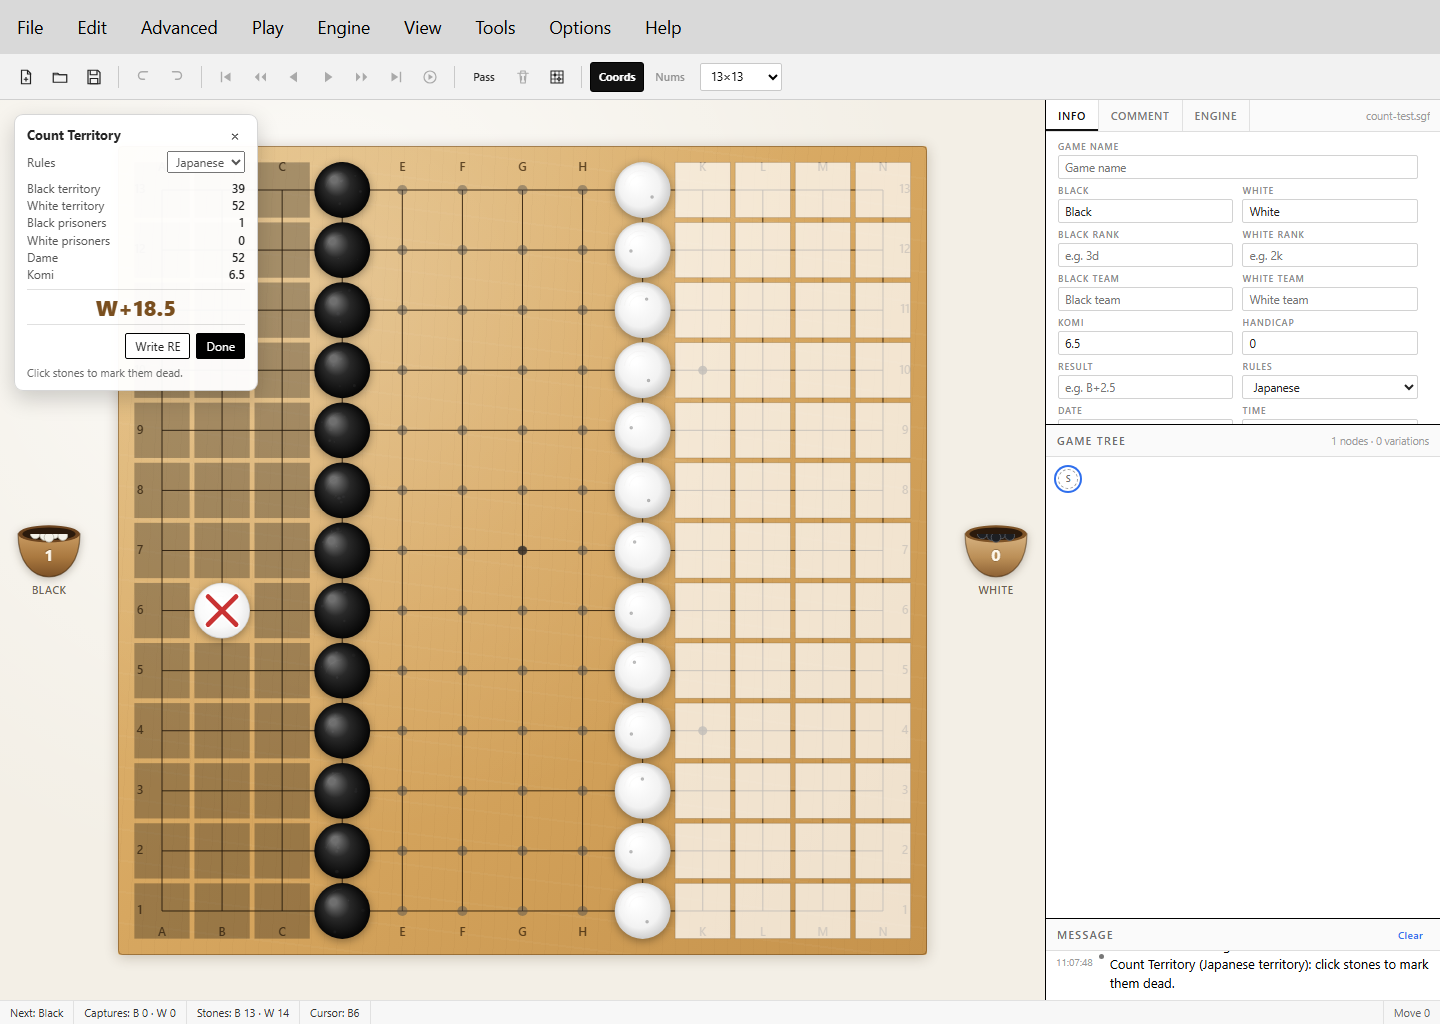
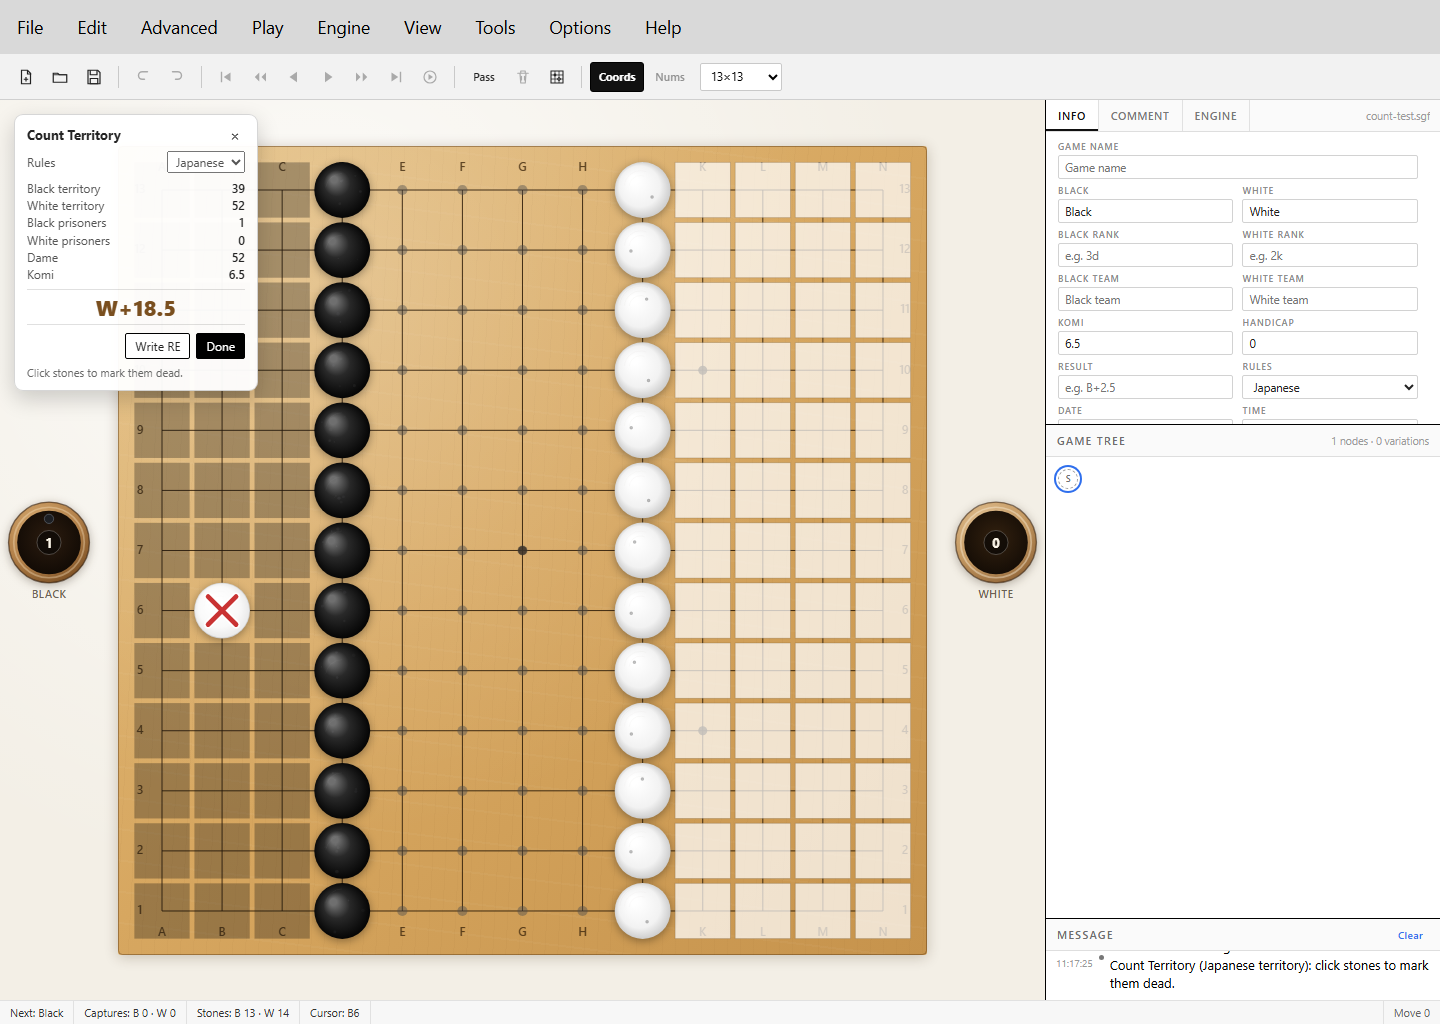
Show captured-stone bowls during play with a top-down layout
- Bowls are live whenever a Japanese-rules game is displayed, not only inside
  Count Territory. Counts come from the board captures, and marked dead stones
  join the prisoner total while counting.
- Redesigned as top-down bowls: wooden rim, dark cavity, the captured stones
  themselves (up to 20) and the prisoner count in a badge in the middle.
- Chinese rules keep the bowls hidden; narrow panes still hide them and
  View -> Show Go Bowls remains the manual toggle.
- README and screenshots updated; verify-count-ui now checks play-time bowls.

Changed region(s): [[0.6562, 0.4688, 0.7188, 0.5938], [0.0, 0.4688, 0.0625, 0.5938], [0.75, 0.9375, 0.9688, 0.9688]]

diff --git a/src/index.html b/src/index.html
@@ -556,26 +556,24 @@
     <main class="workspace" id="workspace">
       <section class="pane pane-board" id="pane-board" aria-label="Go board">
         <div class="bowl bowl-black" id="bowl-black" hidden aria-hidden="true">
-          <svg class="bowl-art" viewBox="0 0 100 92" focusable="false">
+          <svg class="bowl-art" viewBox="0 0 100 100" focusable="false">
             <defs>
-              <linearGradient id="bowl-wood-black" x1="0" y1="0" x2="0" y2="1">
-                <stop offset="0" stop-color="#c99b62"/>
-                <stop offset="0.55" stop-color="#a9783f"/>
-                <stop offset="1" stop-color="#7c5127"/>
-              </linearGradient>
-              <clipPath id="bowl-clip-black"><path d="M14 36 C14 68 30 86 50 86 C70 86 86 68 86 36 Z"/></clipPath>
+              <radialGradient id="bowl-wood-black" cx="38%" cy="30%" r="78%">
+                <stop offset="0" stop-color="#d9ae74"/>
+                <stop offset="0.62" stop-color="#b3814a"/>
+                <stop offset="1" stop-color="#74491f"/>
+              </radialGradient>
+              <radialGradient id="bowl-cavity-black" cx="50%" cy="44%" r="62%">
+                <stop offset="0" stop-color="#2c1c0f"/>
+                <stop offset="1" stop-color="#0f0904"/>
+              </radialGradient>
             </defs>
-            <path d="M14 36 C14 68 30 86 50 86 C70 86 86 68 86 36 Z" fill="url(#bowl-wood-black)" stroke="rgba(60,35,10,.5)" stroke-width="1.5"/>
-            <ellipse cx="50" cy="36" rx="36" ry="10" fill="#6d4520"/>
-            <ellipse cx="50" cy="36" rx="31" ry="7.5" fill="#2b1a0c"/>
-            <g clip-path="url(#bowl-clip-black)">
-              <circle cx="34" cy="36" r="5.6" fill="#f4f2ea" stroke="#b9b6aa" stroke-width="1"/>
-              <circle cx="45" cy="38" r="5.6" fill="#f4f2ea" stroke="#b9b6aa" stroke-width="1"/>
-              <circle cx="56" cy="36" r="5.6" fill="#f4f2ea" stroke="#b9b6aa" stroke-width="1"/>
-              <circle cx="66" cy="38" r="5.6" fill="#f4f2ea" stroke="#b9b6aa" stroke-width="1"/>
-              <circle cx="50" cy="40" r="5.6" fill="#f4f2ea" stroke="#b9b6aa" stroke-width="1"/>
-            </g>
-            <text x="50" y="68" text-anchor="middle" class="bowl-number" id="bowl-black-count">0</text>
+            <circle cx="50" cy="50" r="47" fill="url(#bowl-wood-black)" stroke="rgba(48,26,8,.6)" stroke-width="1.6"/>
+            <circle cx="50" cy="50" r="41" fill="none" stroke="rgba(255,235,200,.35)" stroke-width="2"/>
+            <circle cx="50" cy="50" r="37" fill="url(#bowl-cavity-black)"/>
+            <g id="bowl-black-stones"></g>
+            <circle cx="50" cy="50" r="14" fill="rgba(8,6,4,.66)" stroke="rgba(255,255,255,.28)" stroke-width="1"/>
+            <text x="50" y="50" text-anchor="middle" dominant-baseline="central" class="bowl-number" id="bowl-black-count">0</text>
           </svg>
           <span class="bowl-label">Black</span>
         </div>
@@ -585,26 +583,24 @@
           <canvas id="board-selection" aria-hidden="true"></canvas>
         </div>
         <div class="bowl bowl-white" id="bowl-white" hidden aria-hidden="true">
-          <svg class="bowl-art" viewBox="0 0 100 92" focusable="false">
+          <svg class="bowl-art" viewBox="0 0 100 100" focusable="false">
             <defs>
-              <linearGradient id="bowl-wood-white" x1="0" y1="0" x2="0" y2="1">
-                <stop offset="0" stop-color="#d8b483"/>
-                <stop offset="0.55" stop-color="#bb8f57"/>
-                <stop offset="1" stop-color="#8d6134"/>
-              </linearGradient>
-              <clipPath id="bowl-clip-white"><path d="M14 36 C14 68 30 86 50 86 C70 86 86 68 86 36 Z"/></clipPath>
+              <radialGradient id="bowl-wood-white" cx="38%" cy="30%" r="78%">
+                <stop offset="0" stop-color="#e6c79b"/>
+                <stop offset="0.62" stop-color="#c59a63"/>
+                <stop offset="1" stop-color="#8a5e32"/>
+              </radialGradient>
+              <radialGradient id="bowl-cavity-white" cx="50%" cy="44%" r="62%">
+                <stop offset="0" stop-color="#33210f"/>
+                <stop offset="1" stop-color="#120b05"/>
+              </radialGradient>
             </defs>
-            <path d="M14 36 C14 68 30 86 50 86 C70 86 86 68 86 36 Z" fill="url(#bowl-wood-white)" stroke="rgba(60,35,10,.45)" stroke-width="1.5"/>
-            <ellipse cx="50" cy="36" rx="36" ry="10" fill="#7d5327"/>
-            <ellipse cx="50" cy="36" rx="31" ry="7.5" fill="#2b1a0c"/>
-            <g clip-path="url(#bowl-clip-white)">
-              <circle cx="34" cy="36" r="5.6" fill="#1d1f23" stroke="#5b6068" stroke-width="1"/>
-              <circle cx="45" cy="38" r="5.6" fill="#1d1f23" stroke="#5b6068" stroke-width="1"/>
-              <circle cx="56" cy="36" r="5.6" fill="#1d1f23" stroke="#5b6068" stroke-width="1"/>
-              <circle cx="66" cy="38" r="5.6" fill="#1d1f23" stroke="#5b6068" stroke-width="1"/>
-              <circle cx="50" cy="40" r="5.6" fill="#1d1f23" stroke="#5b6068" stroke-width="1"/>
-            </g>
-            <text x="50" y="68" text-anchor="middle" class="bowl-number" id="bowl-white-count">0</text>
+            <circle cx="50" cy="50" r="47" fill="url(#bowl-wood-white)" stroke="rgba(48,26,8,.55)" stroke-width="1.6"/>
+            <circle cx="50" cy="50" r="41" fill="none" stroke="rgba(255,245,225,.4)" stroke-width="2"/>
+            <circle cx="50" cy="50" r="37" fill="url(#bowl-cavity-white)"/>
+            <g id="bowl-white-stones"></g>
+            <circle cx="50" cy="50" r="14" fill="rgba(8,6,4,.66)" stroke="rgba(255,255,255,.28)" stroke-width="1"/>
+            <text x="50" y="50" text-anchor="middle" dominant-baseline="central" class="bowl-number" id="bowl-white-count">0</text>
           </svg>
           <span class="bowl-label">White</span>
         </div>

diff --git a/src/renderer.js b/src/renderer.js
@@ -199,6 +199,8 @@
   const bowlWhite = $('#bowl-white');
   const bowlBlackCount = $('#bowl-black-count');
   const bowlWhiteCount = $('#bowl-white-count');
+  const bowlBlackStones = $('#bowl-black-stones');
+  const bowlWhiteStones = $('#bowl-white-stones');
   const labelDialog = $('#label-dialog');
   const labelInput = $('#label-input');
   const labelOk = $('#label-ok');
@@ -1238,17 +1240,72 @@
     return rect.width - 28 - COUNT_BOWL_SPACE * 2 >= COUNT_MIN_BOARD;
   }
 
+  const BOWL_STONES = (() => {
+    const points = [];
+    for (let i = 0; i < 12; i += 1) {
+      const angle = ((i * 30) - 90) * (Math.PI / 180);
+      points.push([50 + Math.cos(angle) * 27.5, 50 + Math.sin(angle) * 27.5]);
+    }
+    for (let i = 0; i < 8; i += 1) {
+      const angle = ((i * 45) - 67.5) * (Math.PI / 180);
+      points.push([50 + Math.cos(angle) * 19.5, 50 + Math.sin(angle) * 19.5]);
+    }
+    return points;
+  })();
+
+  function gameRules() {
+    const rules = String(rootProperty('RU', '') || '').toLowerCase();
+    if (rules.includes('chinese') || rules.includes('area')) return 'chinese';
+    return 'japanese';
+  }
+
+  function bowlCounts() {
+    if (countState.active && countState.result) {
+      return {
+        black: countState.result.blackPrisoners,
+        white: countState.result.whitePrisoners,
+      };
+    }
+    if (!currentBoard) return { black: 0, white: 0 };
+    return {
+      black: currentBoard.getCaptures(1) || 0,
+      white: currentBoard.getCaptures(-1) || 0,
+    };
+  }
+
+  function renderBowlStones(group, count, stoneSign) {
+    if (!group) return;
+    const shown = Math.max(0, Math.min(Number(count) || 0, BOWL_STONES.length));
+    if (group.children.length === shown) return;
+    group.replaceChildren();
+    for (let index = 0; index < shown; index += 1) {
+      const [cx, cy] = BOWL_STONES[index];
+      const stone = document.createElementNS('http://www.w3.org/2000/svg', 'circle');
+      stone.setAttribute('cx', cx.toFixed(2));
+      stone.setAttribute('cy', cy.toFixed(2));
+      stone.setAttribute('r', '5.4');
+      stone.setAttribute('fill', stoneSign > 0 ? '#f4f2ea' : '#1d1f23');
+      stone.setAttribute('stroke', stoneSign > 0 ? '#b9b6aa' : '#5b6068');
+      stone.setAttribute('stroke-width', '0.9');
+      group.append(stone);
+    }
+  }
+
   function updateBowls() {
-    const show = countState.active
-      && countState.rules === 'japanese'
-      && settings.showBowls !== false
-      && bowlRoom();
+    // Bowls are live during play (Japanese rules) and while counting; the
+    // counting card only adds dead stones to the prisoner totals.
+    const rules = countState.active ? countState.rules : gameRules();
+    const show = settings.showBowls !== false && rules === 'japanese' && bowlRoom();
     const changed = bowlBlack.hidden === show;
     bowlBlack.hidden = !show;
     bowlWhite.hidden = !show;
-    if (show && countState.result) {
-      bowlBlackCount.textContent = String(countState.result.blackPrisoners);
-      bowlWhiteCount.textContent = String(countState.result.whitePrisoners);
+    if (show) {
+      const counts = bowlCounts();
+      bowlBlackCount.textContent = String(counts.black);
+      bowlWhiteCount.textContent = String(counts.white);
+      // The black bowl keeps White's captured stones and the white bowl Black's.
+      renderBowlStones(bowlBlackStones, counts.black, -1);
+      renderBowlStones(bowlWhiteStones, counts.white, 1);
     }
     return changed;
   }
@@ -3148,6 +3205,7 @@
     syncMenuState();
     updateTitle();
     if (activeTab === 'comment') renderComment();
+    if (updateBowls()) resizeBoard();
     if (window.MultiGoEngine) window.MultiGoEngine.onPositionChanged();
   }
 

diff --git a/src/styles.css b/src/styles.css
@@ -2375,19 +2375,19 @@ kbd {
 
 .bowl-art {
   width: 86px;
-  height: 79px;
+  height: 86px;
   overflow: visible;
-  filter: drop-shadow(0 2px 4px rgba(40, 24, 8, 0.28));
+  filter: drop-shadow(0 2px 5px rgba(40, 24, 8, 0.32));
 }
 
 .bowl-number {
   font-family: inherit;
-  font-size: 19px;
+  font-size: 15px;
   font-weight: 700;
   fill: #fdf7ea;
   paint-order: stroke;
-  stroke: rgba(40, 24, 8, 0.45);
-  stroke-width: 0.8px;
+  stroke: rgba(40, 24, 8, 0.55);
+  stroke-width: 0.7px;
 }
 
 .bowl-label {

diff --git a/README.md b/README.md
@@ -468,7 +468,7 @@ The View menu now covers the practical MultiGo-style display controls:
 - **Show Sibling Variations**: **all child variations of the current node**, labelled
   **A, B, C…** in child order, but **only when there is more than one child**. A single
   continuation is the main branch and gets no sibling marker.
-- **Show Go Bowls**: the captured-stone bowls used while counting in Japanese rules
+- **Show Go Bowls**: the captured-stone bowls shown during play and counting in Japanese rules
   (hidden automatically when the board pane is too narrow)
 - the last move keeps the **red triangle** marker in every mode
 - **Responsive Layout**
@@ -539,10 +539,12 @@ editor does the arithmetic.
 - **Write RE** stores the result in the root node (and the title updates); **Done** or `Esc`
   closes counting. The card only takes clicks on its controls, so stones underneath it remain
   clickable.
-- **Captured-stone bowls**: in Japanese counting a bowl sits on each side of the board — black
-  on the left, white on the right — showing that side's prisoner count. The bowls appear only
-  when Japanese rules are selected and there is enough horizontal space; when the board pane
-  is narrow they hide themselves. **View → Show Go Bowls** turns them off manually.
+- **Captured-stone bowls**: two bowls sit beside the board for the whole Japanese-rules game —
+  black on the left, white on the right. They are drawn **top-down**, so the captured stones
+  are visible inside the bowl and the count sits in the middle. They update live as captures
+  are played, and again while counting (dead stones join the prisoner total). In Chinese rules
+  they stay hidden, they disappear when the board pane is too narrow, and **View → Show Go
+  Bowls** turns them off manually.
 
 Seki and life-and-death are the player's judgement: whatever is not marked dead is treated as
 alive, just like pressing count in MultiGo. There is no automatic dead-stone suggestion.
@@ -552,6 +554,11 @@ alive, just like pressing count in MultiGo. There is no automatic dead-stone sug
 ![A dead stone marked with a red X; Black now holds one prisoner](preview/preview-count-dead.png)
 
 ![Chinese area scoring: stones and territory, no prisoners, bowls hidden](preview/preview-count-chinese.png)
+
+The bowls are live during play as well, not only while counting — here Black has captured one
+White stone and the bowl shows it:
+
+![Captured-stone bowls during play, top-down with the prisoner count in the middle](preview/preview-bowls.png)
 
 When two passes are played consecutively the game is over: a prompt offers **Count Result** or
 **Keep Playing**, and accepting opens the same counting card.
@@ -810,6 +817,9 @@ layout and a 1100×1700 pass for the embed page:
 - opened the docked GTP console, sent commands, and closed it by leaving the Engine tab;
 - opened **Count Territory** on a 13×13 position with a black and a white wall and confirmed
   black/white territory **39/52**, 90 dame and `W+58.5`;
+- confirmed the captured-stone bowls are already visible **during play** on a Japanese-rules
+  game, showing exactly one white stone and the count **1** after Black captured a stone;
+- loaded the same position with `RU[Chinese]` and confirmed the bowls stay hidden;
 - clicked the lone white stone inside Black's area and confirmed it became one prisoner, Black's
   territory stayed 39, the result moved to `W+18.5` and the black bowl showed **1**;
 - switched to **Chinese** rules and confirmed stone counts replaced prisoners, the bowls hid and
@@ -850,7 +860,8 @@ Screenshots: [main editor](preview/preview.png), [custom 5×9 board](preview/pre
 [automatic engine play](preview/engine-auto.png),
 [Japanese counting](preview/preview-count-japanese.png),
 [dead stone counted](preview/preview-count-dead.png),
-[Chinese counting](preview/preview-count-chinese.png)
+[Chinese counting](preview/preview-count-chinese.png),
+[play-time captured-stone bowls](preview/preview-bowls.png)
 and [embeds](preview/preview-embed.png).
 
 The four theme images are the same 13×13 position captured at 1440×1024 by
@@ -1010,7 +1021,7 @@ downloaded again. Code signing is skipped unless a certificate is configured
 | GTP console | Engine → GTP Console… |
 | Count territory | Tools → Count Territory or `Ctrl+K`; click stones to mark them dead |
 | Close counting | `Esc` or the **Done** button in the count card |
-| Captured-stone bowls | View → Show Go Bowls (Japanese counting, wide board panes only) |
+| Captured-stone bowls | View → Show Go Bowls (Japanese games, wide board panes only) |
 | Menus | `Alt+F / E / A / P / V / T / O / H / G` |
 | Help | `F1` |
 
